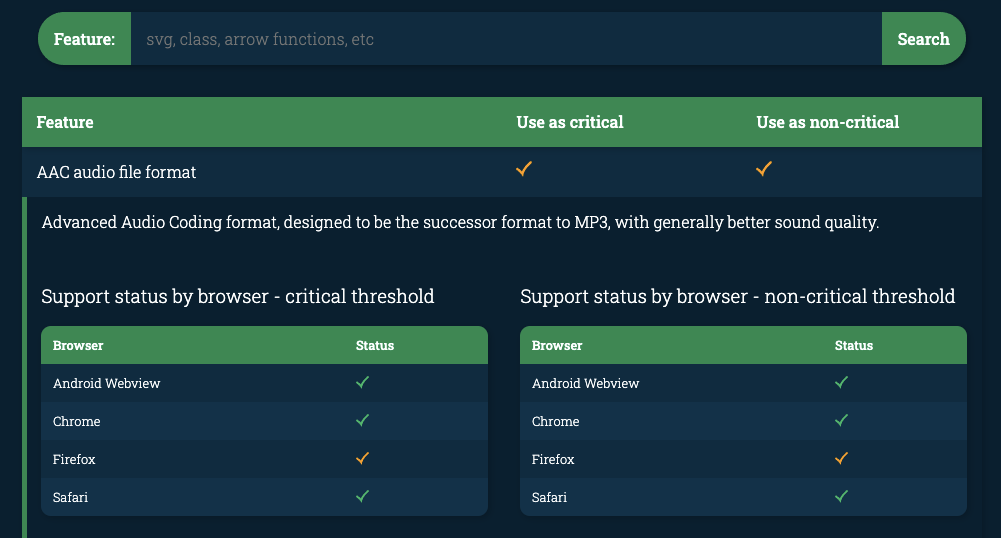
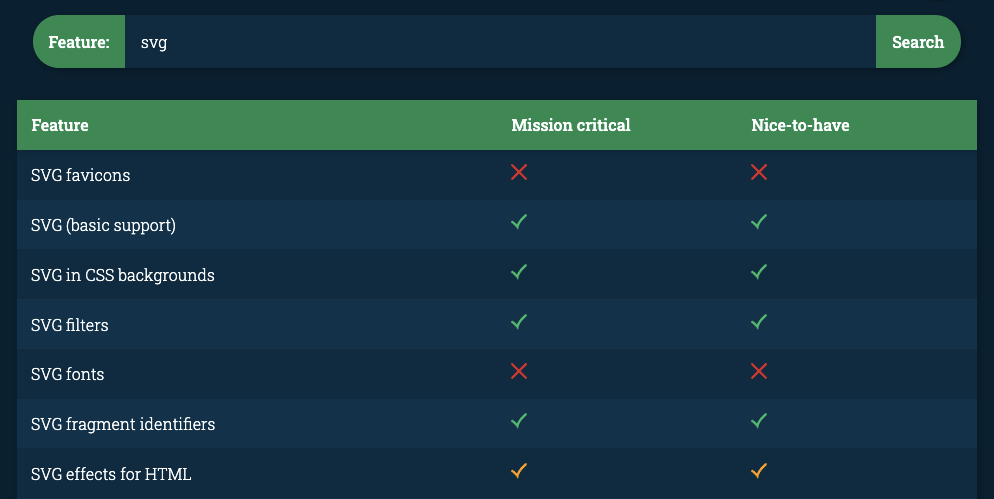
Move browser usage data filter to config. - Make dark theme the default. - Update screenshot.

diff --git a/src/common/components/FeatureTable/FeatureTableItem/FeatureTableItem.tsx b/src/common/components/FeatureTable/FeatureTableItem/FeatureTableItem.tsx
@@ -121,7 +121,7 @@ export function FeatureTableItem({name, feature}: IProps) {
 
         <div className="grid grid--spacing">
           <div className="cell--6">
-            <h3>Support status by browser - critical threshold</h3>
+            <h3>Support status by browser - mission critical</h3>
             <table className="table--small">
               <caption className="sr">Table displaying whether or not currently selected feature can be used as a critical feature in a specific browser.</caption>
               <thead>
@@ -131,9 +131,9 @@ export function FeatureTableItem({name, feature}: IProps) {
                 </tr>
               </thead>
               <tbody>
-                {Object.entries(supportStatusByBrowserCritical).map(([browser, supportStatus]) => {
+                {Object.entries(supportStatusByBrowserCritical).map(([browser, supportStatus], i: number) => {
                   return (
-                    <tr>
+                    <tr key={i}>
                       <th>{browser}</th>
                       <td>
                         <span className="sr">{mapSupportStatusToReadableString(supportStatus)}</span>
@@ -150,7 +150,7 @@ export function FeatureTableItem({name, feature}: IProps) {
           </div>
 
           <div className="cell--6">
-            <h3>Support status by browser - non-critical threshold</h3>
+            <h3>Support status by browser - nice-to-have</h3>
             <table className="table--small">
               <caption className="sr">Table displaying whether or not currently selected feature can be used as a non-critical feature in a specific browser.</caption>
               <thead>
@@ -160,9 +160,9 @@ export function FeatureTableItem({name, feature}: IProps) {
                 </tr>
               </thead>
               <tbody>
-                {Object.entries(supportStatusByBrowserNonCritical).map(([browser, supportStatus]) => {
+                {Object.entries(supportStatusByBrowserNonCritical).map(([browser, supportStatus], i: number) => {
                   return (
-                    <tr>
+                    <tr key={i}>
                       <th>{browser}</th>
                       <td>
                         <span className="sr">{mapSupportStatusToReadableString(supportStatus)}</span>
@@ -191,9 +191,9 @@ export function FeatureTableItem({name, feature}: IProps) {
                 </tr>
               </thead>
               <tbody>
-                {Object.entries(firstPartiallySupportedIn).map(([browser, version]) => {
+                {Object.entries(firstPartiallySupportedIn).map(([browser, version], i: number) => {
                   return (
-                    <tr>
+                    <tr key={i}>
                       <th>{browser}</th>
                       <td>{version}</td>
                     </tr>
@@ -214,9 +214,9 @@ export function FeatureTableItem({name, feature}: IProps) {
                 </tr>
               </thead>
               <tbody>
-                {Object.entries(firstFullySupportedIn).map(([browser, version]) => {
+                {Object.entries(firstFullySupportedIn).map(([browser, version], i: number) => {
                   return (
-                    <tr>
+                    <tr key={i}>
                       <th>{browser}</th>
                       <td>{version}</td>
                     </tr>
@@ -240,9 +240,9 @@ export function FeatureTableItem({name, feature}: IProps) {
                 </tr>
               </thead>
               <tbody>
-                {Object.entries(supportedInLatestBrowserVersion).map(([browser, supportStatus]) => {
+                {Object.entries(supportedInLatestBrowserVersion).map(([browser, supportStatus], i: number) => {
                   return (
-                    <tr>
+                    <tr key={i}>
                       <th>{browser}</th>
                       <td>
                         <span className="sr">{mapCanIUseSupportStatusToReadableString(getSupportStatus(supportStatus))}</span>
@@ -265,8 +265,8 @@ export function FeatureTableItem({name, feature}: IProps) {
             <br />
             <h3>Notes</h3>
             <ol>
-              {Object.entries(notesByNum).map(([num, note]) => {
-                return <li id={`feature--${name}--note--${num}`}><span dangerouslySetInnerHTML={{__html: parseMarkdown(note)}}></span></li>;
+              {Object.entries(notesByNum).map(([num, note], i: number) => {
+                return <li key={i} id={`feature--${name}--note--${num}`}><span dangerouslySetInnerHTML={{__html: parseMarkdown(note)}}></span></li>;
               })}
             </ol>
           </>

diff --git a/src/server/server-state.ts b/src/server/server-state.ts
@@ -7,7 +7,7 @@ import {
 import { getBrowserSupportData, getMockBrowserSupportData } from './caniuse-data/data';
 import { getConfig } from './util/config';
 import { ICanIUseData } from './caniuse-data/data-types';
-import { IBrowserUsageDataByCriticality, TBrowserUsageDataFilter } from './google-analytics/data-types';
+import { IBrowserUsageDataByCriticality } from './google-analytics/data-types';
 import { analyticsreporting_v4 } from 'googleapis';
 
 interface IServerState {
@@ -24,32 +24,7 @@ const serverState: IServerState = {};
 
 const googleAnalytics = getConfig('googleAnalytics');
 const { days } = googleAnalytics.params;
-const filters: TBrowserUsageDataFilter = {
-  'Chrome': {
-    criticalFeatures: {
-      minUsersPercentage: 1,
-    },
-    nonCriticalFeatures: {
-      minUsersPercentage: 5,
-    },
-  },
-  'Safari': {
-    criticalFeatures: {
-      minUsersPercentage: 1,
-    },
-    nonCriticalFeatures: {
-      minUsersPercentage: 5,
-    },
-  },
-  'Firefox': {
-    criticalFeatures: {
-      minUsersPercentage: 1,
-    },
-    nonCriticalFeatures: {
-      minUsersPercentage: 5,
-    },
-  },
-};
+const filters = googleAnalytics.filters;
 
 /* export function setServerState(props: ISetServerStateParam) {
   Object.entries(props).forEach(([key, val]) => {

diff --git a/src/common/style.css b/src/common/style.css
@@ -12,16 +12,16 @@
    * Usage: hsl(var(--color-background)), hsla(var(--color-background), .5) 
    * Alternate colors are used for theming.
    */
-  --color-background: 51, 32%, 91%;
-  --color-background-alternate: 203, 90%, 10%;
-  --color-foreground: 0, 0%, 100%;
-  --color-foreground-alternate: 201, 87%, 16%;
-  --color-primary: 51, 100%, 50%;
-  --color-primary-alternate: 150, 80%, 30%;
-  --color-text: 0, 0%, 0%;
-  --color-text-alternate: 0, 0%, 100%;
-  --color-anchor: 30, 80%, 50%;
-  --color-anchor-alternate: 150, 80%, 45%;
+   --color-background: 203, 90%, 10%;
+   --color-background-alternate: 51, 32%, 91%;
+  --color-foreground: 201, 87%, 16%;
+  --color-foreground-alternate: 0, 0%, 100%;
+  --color-primary: 150, 80%, 30%;
+  --color-primary-alternate: 51, 100%, 50%;
+  --color-text: 0, 0%, 100%;
+  --color-text-alternate: 0, 0%, 0%;
+  --color-anchor: 150, 80%, 45%;
+  --color-anchor-alternate: 30, 80%, 50%;
   --color-shadow: 0, 0%, 0%;
   --color-shadow-alternate: 0, 0%, 0%;
   --color-success: 150, 80%, 40%;

diff --git a/src/server/google-analytics/data.ts b/src/server/google-analytics/data.ts
@@ -13,7 +13,7 @@ import {
 import { reporting } from './auth';
 import {
   TBrowserUsageData, 
-  TBrowserUsageDataFilter, 
+  TBrowserUsageDataFilters, 
   IBrowserUsageDataByCriticality, 
   IBrowserUsageDataByCriticalityRaw
 } from './data-types';
@@ -79,7 +79,7 @@ export function getMockBrowserUsageData(): analyticsreporting_v4.Schema$GetRepor
  * @param data 
  * @param filters 
  */
-export function filterBrowserUsageData(data: analyticsreporting_v4.Schema$GetReportsResponse, filters: TBrowserUsageDataFilter): IBrowserUsageDataByCriticalityRaw {
+export function filterBrowserUsageData(data: analyticsreporting_v4.Schema$GetReportsResponse, filters: TBrowserUsageDataFilters): IBrowserUsageDataByCriticalityRaw {
   // const dataCopy: analyticsreporting_v4.Schema$GetReportsResponse = {...data};
   // We're modifying deeply nested properties, so we need a new reference:
   const dataCopy: analyticsreporting_v4.Schema$GetReportsResponse = JSON.parse(JSON.stringify(data));

diff --git a/src/common/components/FeatureTable/FeatureTable.tsx b/src/common/components/FeatureTable/FeatureTable.tsx
@@ -13,8 +13,8 @@ export function FeatureTable() {
       <div className={styles.header} aria-hidden="true">
         <div className={styles.header__row}>
           <div className={styles.header__data}>Feature</div>
-          <div className={styles.header__data}>Use as critical</div>
-          <div className={styles.header__data}>Use as non-critical</div>
+          <div className={styles.header__data}>Mission critical</div>
+          <div className={styles.header__data}>Nice-to-have</div>
         </div>
       </div>
       <table className={styles.table}>
@@ -22,8 +22,8 @@ export function FeatureTable() {
         <thead className="sr">
           <tr>
             <th>Feature</th>
-            <th>Use as critical</th>
-            <th>Use as non-critical</th>
+            <th>Mission critical</th>
+            <th>Nice-to-have</th>
           </tr>
         </thead>
         <tbody>

diff --git a/src/server/google-analytics/data-types.ts b/src/server/google-analytics/data-types.ts
@@ -17,13 +17,14 @@ export type TBrowserUsageData = {
   }
 }
 
-// TODO: Put these numbers in config.json?
-export type TBrowserUsageDataFilter = {
+export type TBrowserUsageDataFilters = {
   [key in TBrowser]?: {
     criticalFeatures: {
+      // Only care about this browser if at least `minUsersPercentage` are using it.
       minUsersPercentage: number;
     }
     nonCriticalFeatures: {
+      // Only care about this browser if at least `minUsersPercentage` are using it.
       minUsersPercentage: number;
     }
   }

diff --git a/src/common/components/FeatureTable/FeatureTableItem/FeatureTableItem-utils.tsx b/src/common/components/FeatureTable/FeatureTableItem/FeatureTableItem-utils.tsx
@@ -13,8 +13,9 @@ export function mapSupportStatusToNoteAnchors(supportStatus: string, featureName
     return null;
   }
 
-  return supportStatus.substring(hashIndex).split(' ').map((note: string) => {
+  return supportStatus.substring(hashIndex).split(' ').map((note: string, i: number) => {
     return <a 
+      key={i}
       href={`#feature--${featureName}--note--${note.replace('#', '')}`} 
       title={`Go to note ${note.replace('#', '')} about ${featureName}`}>
         {note}

diff --git a/src/server/util/config-types.ts b/src/server/util/config-types.ts
@@ -1,7 +1,8 @@
+import { TBrowserUsageDataFilters } from '../google-analytics/data-types';
+
 interface IGoogleAnalyticsSite {
   viewId: string;
 }
-
 interface IGoogleAnalyticsServiceAccountAuthInfo {
   type: string;
   project_id: string;
@@ -21,6 +22,7 @@ export interface IConfig {
     domains: {
       [domain: string]: IGoogleAnalyticsSite;
     };
+    filters: TBrowserUsageDataFilters;
     params: {
       days: number;
     }

diff --git a/src/common/components/ThemeSwitcher/ThemeSwitcher.tsx b/src/common/components/ThemeSwitcher/ThemeSwitcher.tsx
@@ -29,7 +29,7 @@ function switchCssValues(propertyMapping: ICssPropertiesAlternateMapping) {
 }
 
 export function ThemeSwitcher() {
-  const [theme, setTheme] = useState<'light' | 'dark'>('light');
+  const [theme, setTheme] = useState<'light' | 'dark'>('dark');
   const buttonEl = useRef<HTMLButtonElement>();
 
   function handleClick(e: MouseEvent) {    

diff --git a/README.md b/README.md
@@ -1,5 +1,5 @@
 # caniuse
-Check if you can use a certain CSS or JS feature on your site based on browser usage data from Google Analytics.
+Check if you can use a certain CSS or JS feature as mission critical or nice-to-have on your site based on browser usage data from Google Analytics.
 
 ![The user interface displaying data about the support status of a browser feature](screenshot.png "The UI")
 
@@ -37,6 +37,8 @@ Duplicate `config/config-example.json` into `config/config.json` and add your in
 > Dev supports a mock mode, where the app uses local mock data instead of doing actual http calls. To use mock mode, run `npm run mock:generate` (this will create a `mock` folder with the data. Requires a network connection.), then `npm run dev:mock`. Handy for developing offline.
 
 ## Prod
+Duplicate `config/config-example.json` into `config/config.json` and add your info here. Remember to delete the comments.
+
 `npm i`
 
 `npm run build`
